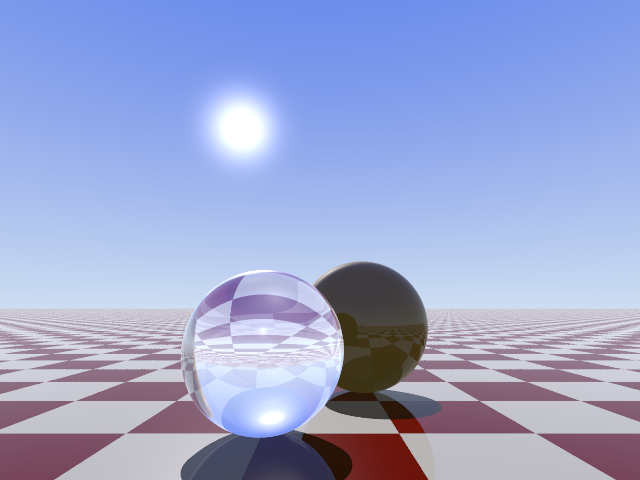
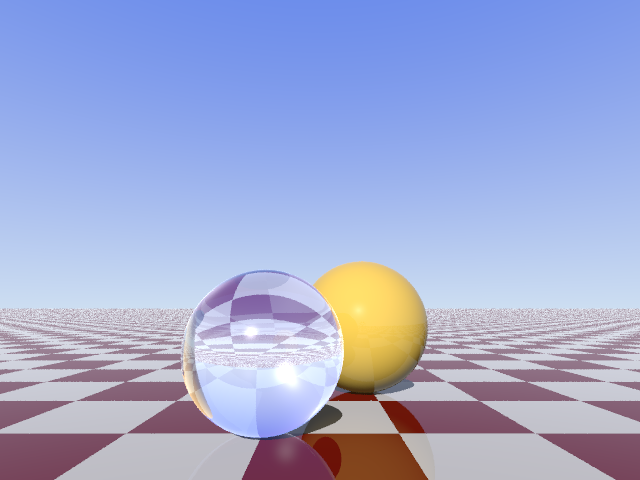
image fixed

diff --git a/newmodules/JaroslavNejedly-AdvancedBackground/DemoScene.cs b/newmodules/JaroslavNejedly-AdvancedBackground/DemoScene.cs
@@ -24,7 +24,7 @@ scene.Intersectable = root;
 // Background color.
 scene.BackgroundColor = new double[] {0.3, 0.5, 0.65};
 var advBackground = new AdvancedBackground(new double[] { 0.10, 0.22, 0.83 }, new double[] { 0.62, 0.74, 0.89 }, Vector3d.UnitY);
-advBackground.SunDir = new Vector3d(-1.1, 2.5, 5.0);
+advBackground.SunDir = new Vector3d(-1.1, 2.5, -5.0);
 advBackground.SunIntensity = new double[] {2.4, 2.3, 2.3};
 advBackground.SunSmallness = 450;
 scene.Background = advBackground;
